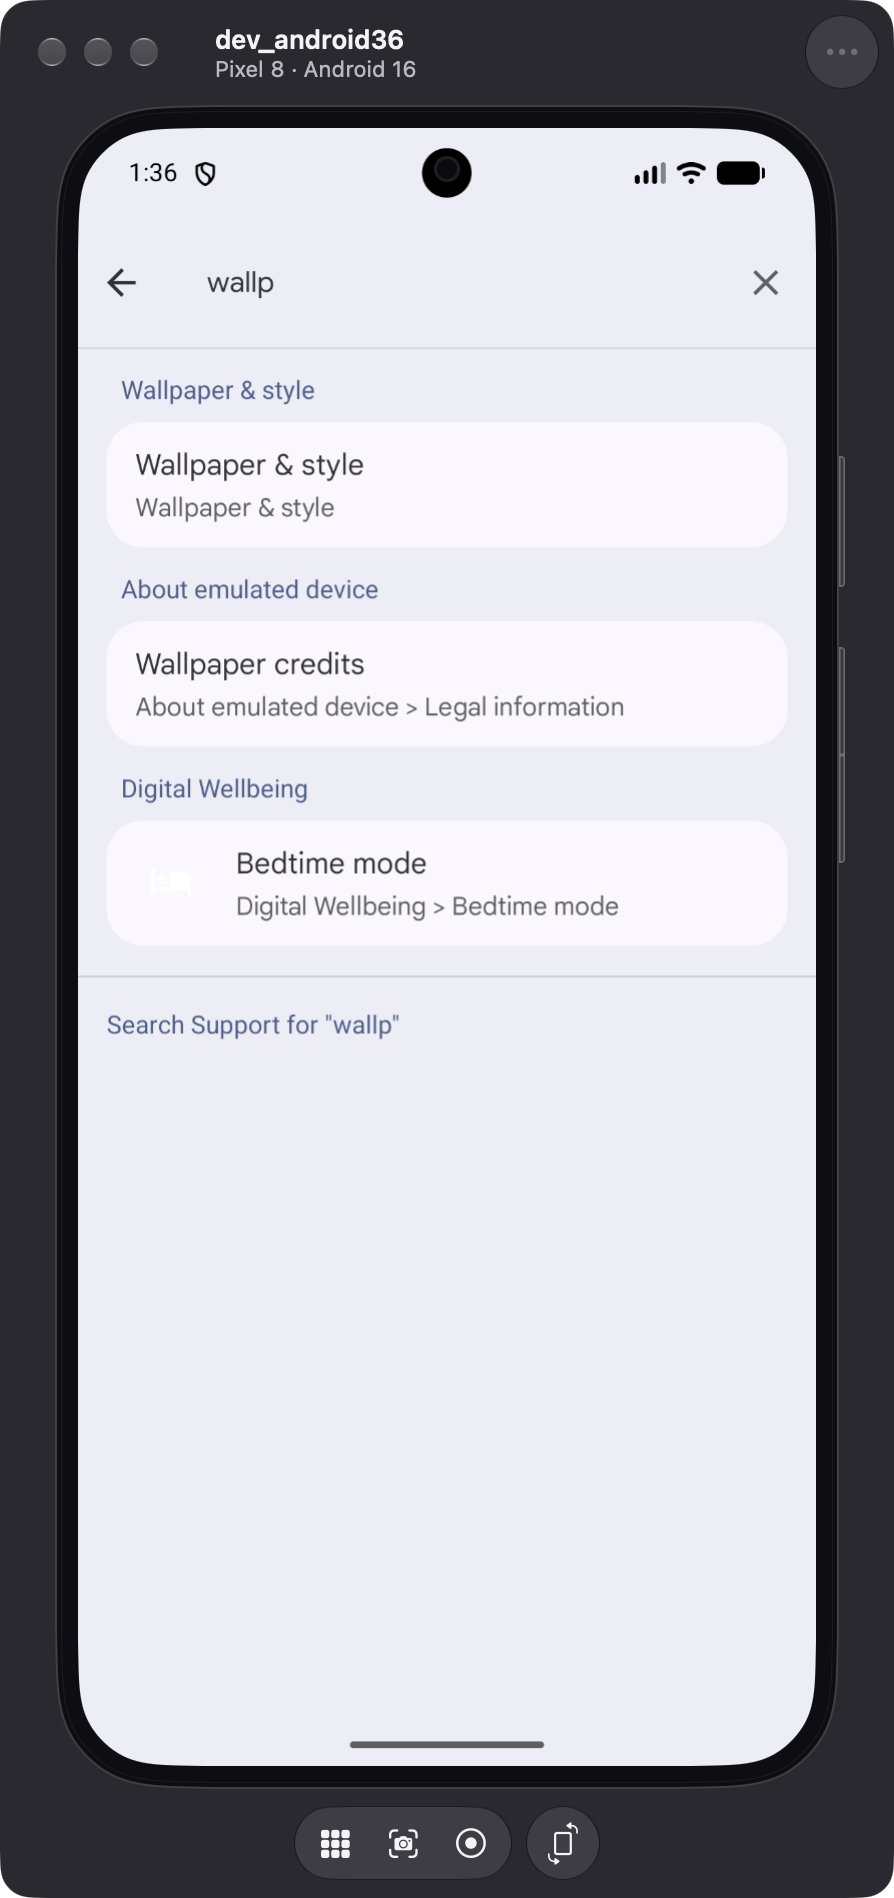
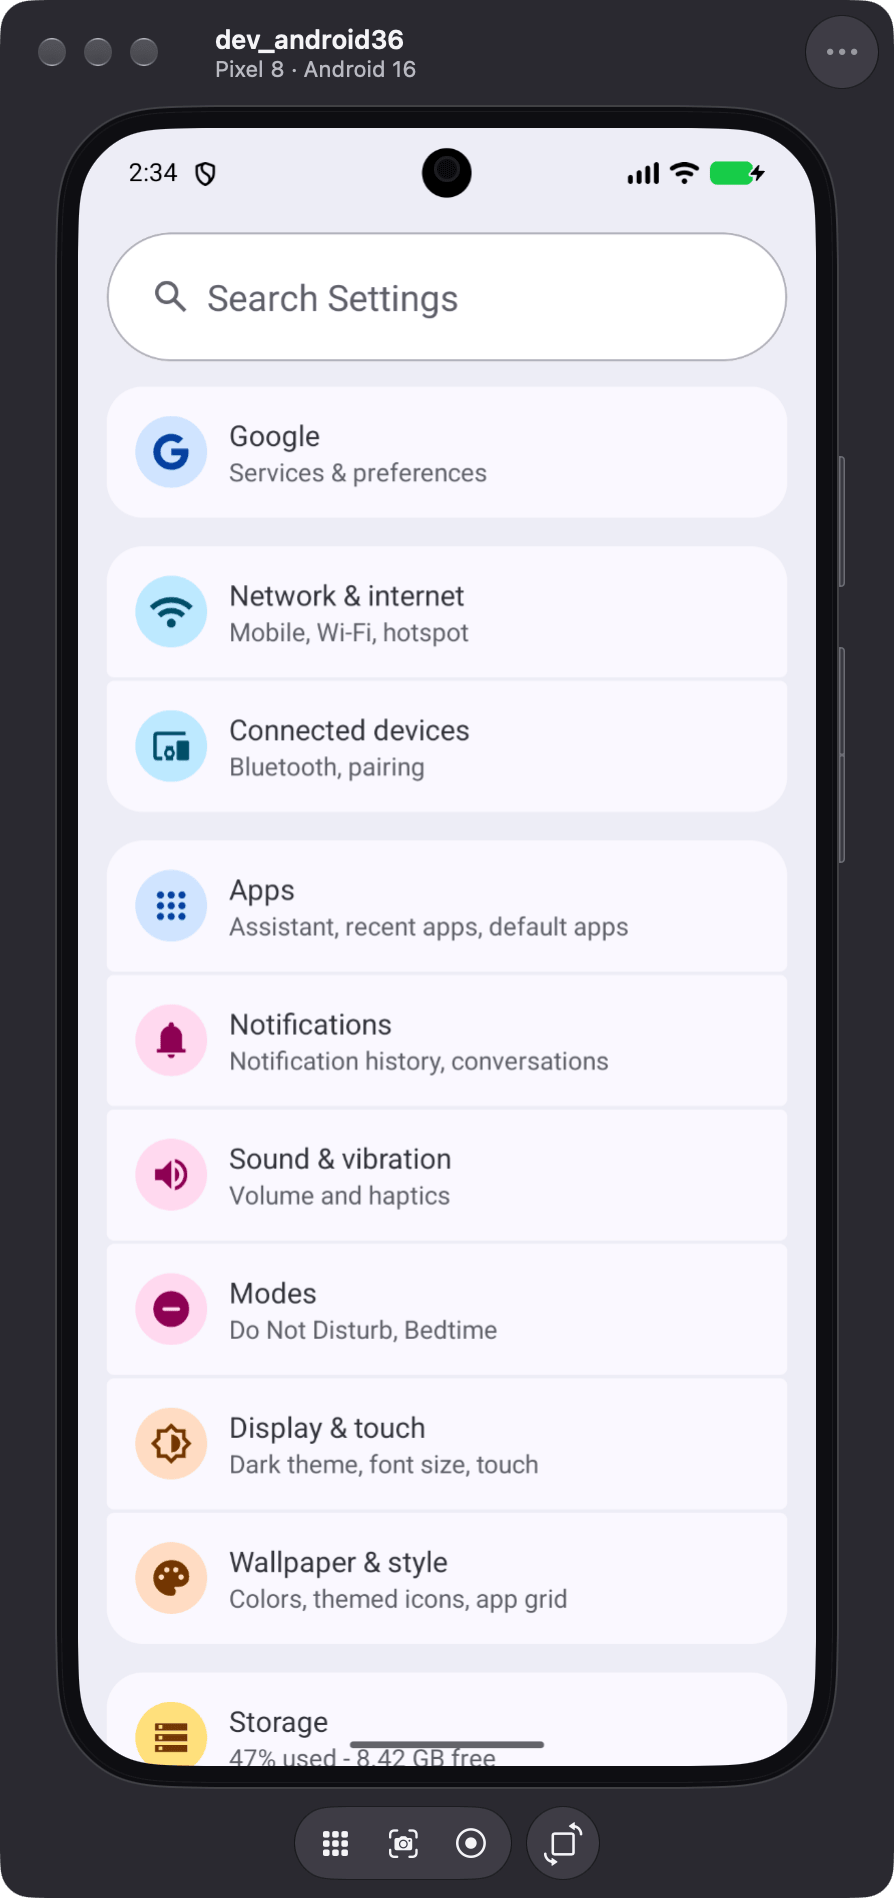
Pane page: what 1.0.0 does today and new hero screenshots
Claude-Session: https://claude.ai/code/session_0121KYQLzbbKPAh1X92pLA6d

diff --git a/public/pane/index.html b/public/pane/index.html
@@ -46,41 +46,45 @@
 <figure class="shot">
 <picture>
 <source srcset="/pane/screen-dark.png" media="(prefers-color-scheme: dark)">
-<img src="/pane/screen-light.png" width="894" height="1898" alt="The Pane window: a Pixel 8 emulator on Android 16 inside a drawn phone frame. Under it are buttons for Home, Screenshot, Record and Rotate.">
+<img src="/pane/screen-light.png" width="894" height="1898" alt="The Pane window: a Pixel 8 emulator on Android 16 showing the Settings app, inside a drawn phone frame. Under it are buttons for Home, Screenshot, Record and Rotate.">
 </picture>
 </figure>
 
 <section class="product">
 <h2>What it does</h2>
 <ul>
-<li>Shows the emulator in one window, inside a frame drawn to fit its screen.</li>
-<li>Sends your clicks, scrolls and keys to the emulator.</li>
+<li>Shows the emulator in one window, inside a frame drawn to fit its screen. Clicks, scrolls and keys go to the emulator.</li>
 <li>The power and volume buttons on the frame work. Click them.</li>
-<li>Starts an emulator without its own window, or attaches to one that is already running.</li>
-<li>Takes screenshots and records the screen as an H.264 .mov file.</li>
-<li>Rotate and Home sit under the device.</li>
+<li>Inspect layout shows a view's frame, size and id in dp. Measure draws a line between two points and snaps to view edges. Pick colour copies a pixel's hex value.</li>
+<li>Drop an app on the screen to install it. Pane says whether it's new, an update or older before you let go. Other files go to the device's Download folder.</li>
+<li>Text you copy on the device reaches the Mac while Pane is in front. Command-V in Pane pastes the Mac's text on the device.</li>
+<li>Saves or copies screenshots, with the device frame if you want it. Recordings show a timer while they run and can be exported as a GIF.</li>
 <li>Window sizes like the iOS Simulator: Physical Size, Point Accurate, Pixel Accurate and Fit Screen.</li>
+<li>Click the device name to switch emulators, or open another one in a new window. Each emulator gets one window.</li>
+<li>Starts an emulator without its own window, or attaches to one that is already running.</li>
 </ul>
 
 <h2>What it needs</h2>
 <ul>
 <li>macOS 15 or later.</li>
 <li>The Android SDK with its emulator installed, and at least one virtual device.</li>
+<li>Emulator 37.3.9 or later is recommended. The current stable build, 37.2.13, can crash while anything streams its screen. Install the beta with <code>sdkmanager --channel=1 emulator</code>.</li>
 </ul>
 <p>Pane works with the Android emulator only. It does not show physical phones or the iOS Simulator.</p>
 
-<h2>Show All Emulators in Pane</h2>
-<p>This setting is optional and off by default. When it is on, an emulator started anywhere, such as from Expo or a terminal, opens in Pane without its own window.</p>
+<h2>Show all emulators in Pane</h2>
+<p>This setting is in Pane's Settings. It is optional and off by default. When it is on, an emulator started anywhere, such as from Expo or a terminal, opens in Pane without its own window.</p>
 <p>It changes your shell setup, so here is what it does:</p>
 <ul>
 <li>It creates a wrapper SDK folder at <code>~/Library/Android/pane-sdk</code>. The folder links to your real SDK. Only the emulator launcher is replaced.</li>
 <li>It adds a small marked block to your fish and zsh config files. The block points <code>ANDROID_HOME</code> at the wrapper folder. Pane backs up each file first.</li>
 </ul>
-<p>Turn the setting off and Pane removes the block and the folder.</p>
+<p>Turn the setting off and Pane removes the block and the folder. If Pane is missing, the wrapper runs the real emulator unchanged.</p>
+<p>While the setting is on, install SDK packages from Android Studio. Running <code>sdkmanager</code> from your shell would write into the wrapper folder.</p>
 
 <h2>Good to know</h2>
 <ul>
-<li>No account and no analytics.</li>
+<li>No account and no analytics. Pane only goes online to check for its own updates.</li>
 <li>Pane is not sandboxed. It has to read the emulator's files to find and connect to it.</li>
 <li>Releases are signed with a Developer ID and notarized by Apple.</li>
 <li>Pane updates itself.</li>
